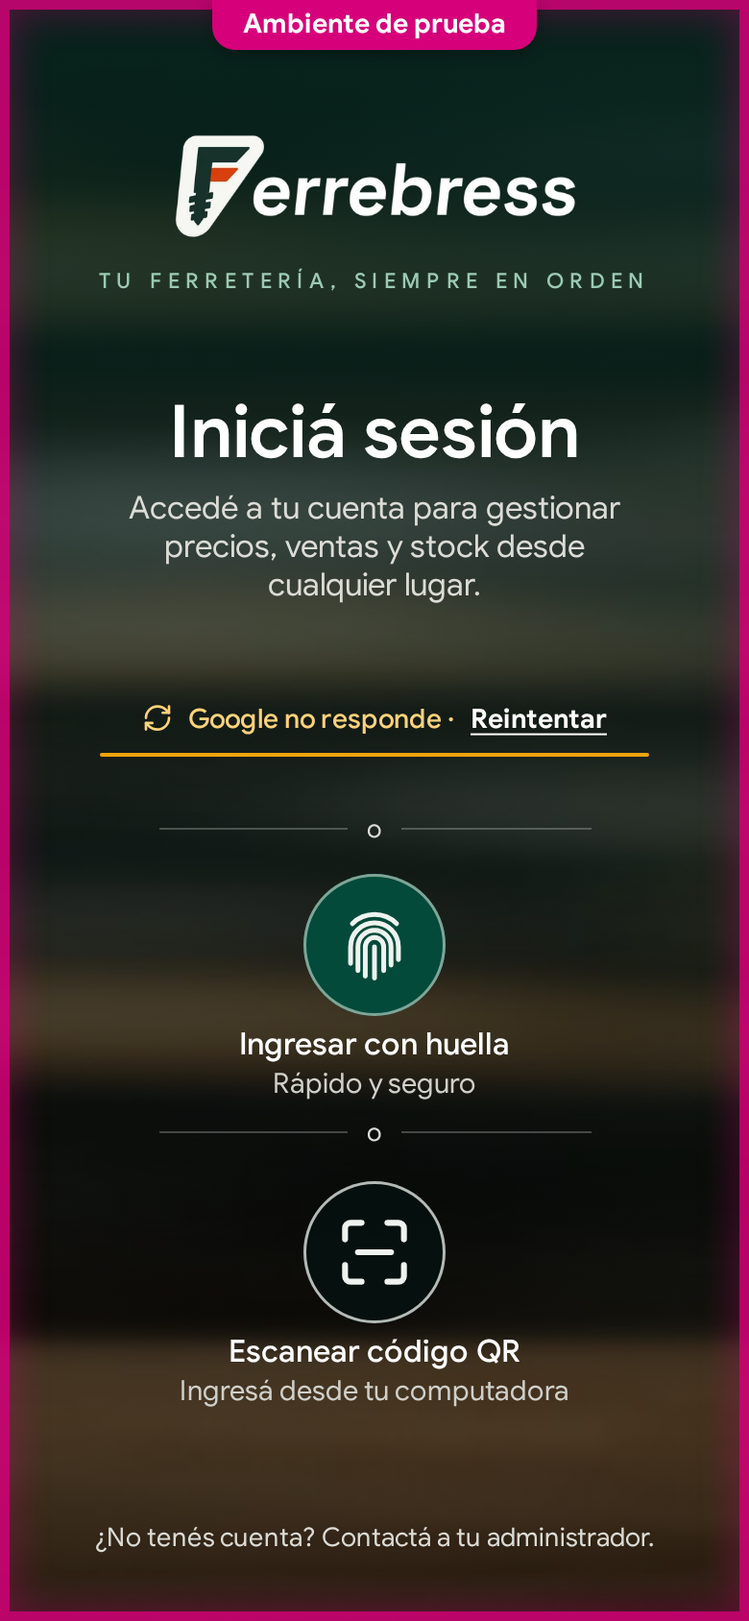
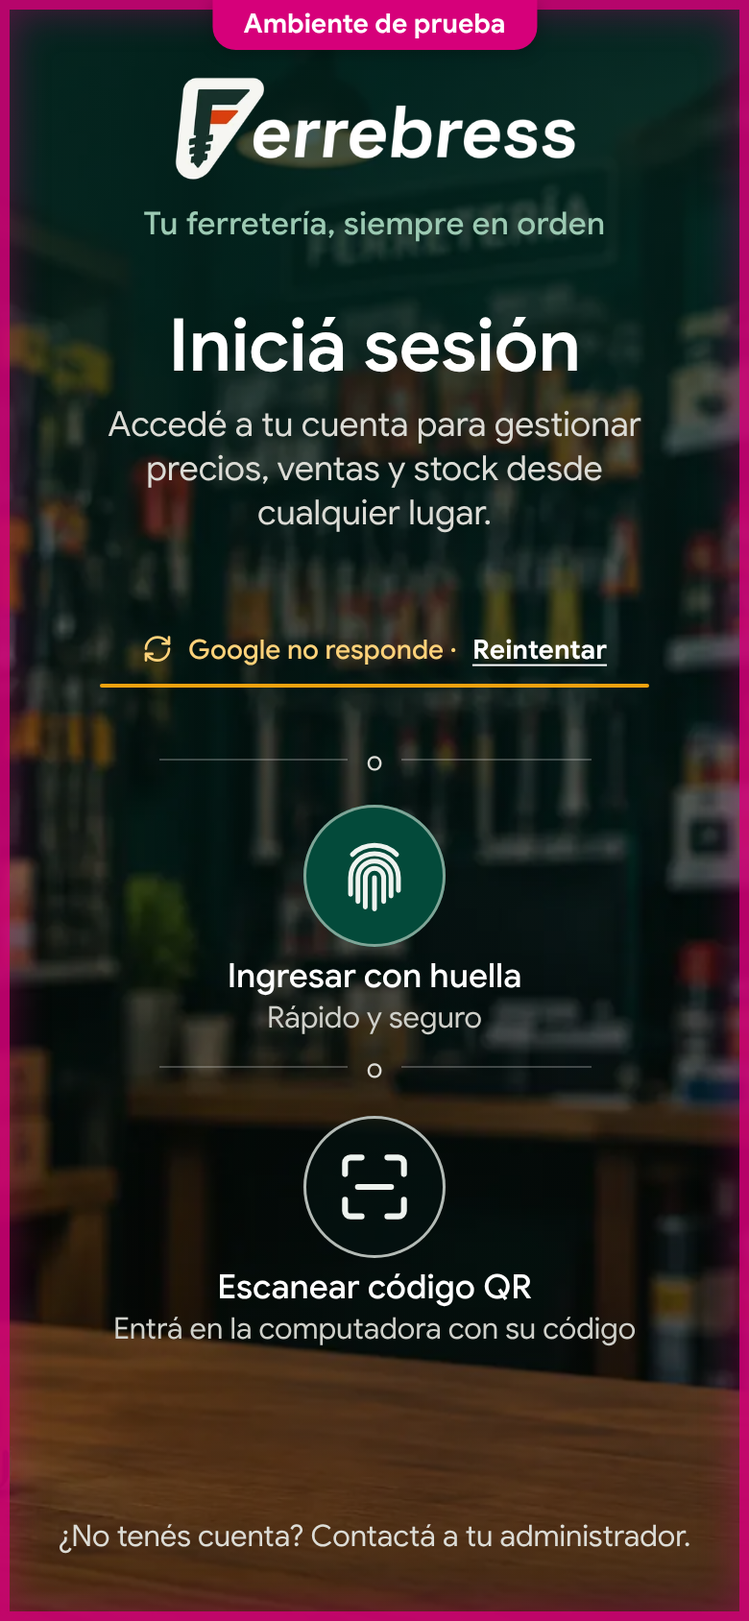
15 · Sin conexión: las maquetas de entrar sin conexión, para aprobar
- La entrada oscura del celular suma «Sin conexión, con la huella» (la huella prendida y hasta
  cuándo se puede entrar) y «No se pudo confirmar tu entrada sin conexión». La maqueta toma
  también los tamaños y espacios que Carlos pidió al probar la aplicación.
- Más del celular suma «Trabajar sin conexión», con su interruptor.
- Sin conexión, el logo de la entrada del celular baja: la pastilla «Sin conexión» le tapaba la
  punta, también en la aplicación.

Claude-Session: https://claude.ai/code/session_01BmbhiYJAfQvWshUgYzn7JL

diff --git a/docs/design/mockups/sign-in-phone-dark/final/sign-in.css b/docs/design/mockups/sign-in-phone-dark/final/sign-in.css
@@ -26,7 +26,7 @@
   --urgente-suave: #FFF3D8; --urgente-texto: #845400; --urgente-borde: #f0c64a;
   --error-suave: #FCEAE7; --error-texto: #AE281D; --error: #D7372A;
   --logro: #1E9E62; --logro-suave: #E2F4EA; --logro-texto: #11764A;
-  --pino-suave: #E3EEE8; --pino-texto: #17614E;
+  --pino-suave: #E3EEE8; --pino-texto: #17614E; --pino-borde: #b5d3c4;
   --google: #1a73e8;
   --magenta: #d6007a;
   /* Movimiento: lo que sube, sube rápido y frena suave; lo que se va, se va más rápido. */
@@ -66,11 +66,15 @@ body.show-keys kbd { display: inline-flex; }
 .notice strong { display: block; }
 .notice.error { background: var(--error-suave); color: var(--error-texto); box-shadow: inset 0 0 0 1px #f3c6bf; }
 .notice.warn { background: var(--urgente-suave); color: var(--urgente-texto); box-shadow: inset 0 0 0 1px var(--urgente-borde); }
+/* Informa, no frena: se puede entrar con la huella sin conexión (15 · R2.1). */
+.notice.info { background: var(--pino-suave); color: var(--pino-texto); box-shadow: inset 0 0 0 1px var(--pino-borde); }
 .notice b { font-variant-numeric: tabular-nums; }
 body[data-state="sesion-cerrada"] #notice-closed,
-body[data-state="sesion-vencida"] #notice-closed { display: flex; }
+body[data-state="sesion-vencida"] #notice-closed,
+body[data-state="no-confirmada"] #notice-closed { display: flex; }
 body[data-state="no-autorizada"] #notice,
 body[data-state="sin-conexion"] #notice,
+body[data-state="sin-conexion-huella"] #notice,
 body[data-state="intentos"] #notice { display: flex; }
 @media (prefers-reduced-motion: no-preference) {
   .notice { animation: notice-in var(--t-entra) var(--curva); }
@@ -313,7 +317,7 @@ body[data-state="intentos"] #notice { display: flex; }
     --oscuro-texto: #ffffff;                /* títulos */
     --oscuro-texto-2: #dcdcd6;              /* el subtítulo y lo que explica */
     --oscuro-texto-3: #cfd0ca;              /* lo menos importante */
-    --oscuro-lema: #9ccab3;                 /* «TU FERRETERÍA, SIEMPRE EN ORDEN» */
+    --oscuro-lema: #9ccab3;                 /* el lema, «Tu ferretería, siempre en orden» */
     --oscuro-linea: rgb(255 255 255 / 0.24);/* las líneas de la «o» */
     --huella: #034a3a;                      /* el círculo de la huella */
     --huella-borde: #7fa597;
@@ -337,26 +341,28 @@ body[data-state="intentos"] #notice { display: flex; }
   /* Arriba a la derecha, solo sin conexión. */
   .status { position: absolute; top: 34px; right: 14px; z-index: 2; width: auto; }
   .status-net { display: none; }
-  body[data-state="sin-conexion"] .status-net { display: inline-flex; align-items: center; gap: 8px; padding: 7px 14px; border-radius: 12px; background: #fff7d6; color: #6b4a00; box-shadow: inset 0 0 0 1px var(--urgente-borde); font-size: 15px; font-weight: 700; }
-  body[data-state="sin-conexion"] .status-net::before { content: "!"; display: grid; place-items: center; width: 18px; height: 18px; border-radius: 50%; border: 2px solid currentColor; font-size: 12px; font-weight: 800; }
+  body[data-net="offline"] .status-net { display: inline-flex; align-items: center; gap: 8px; padding: 7px 14px; border-radius: 12px; background: #fff7d6; color: #6b4a00; box-shadow: inset 0 0 0 1px var(--urgente-borde); font-size: 15px; font-weight: 700; }
+  body[data-net="offline"] .status-net::before { content: "!"; display: grid; place-items: center; width: 18px; height: 18px; border-radius: 50%; border: 2px solid currentColor; font-size: 12px; font-weight: 800; }
 
-  /* La marca: el logo blanco y el lema en mayúsculas espaciadas. */
-  .brand { order: 1; display: flex; flex-direction: column; align-items: center; padding-top: 70px; }
+  /* La marca: el logo blanco y el lema. */
+  .brand { order: 1; display: flex; flex-direction: column; align-items: center; padding-top: 40px; }
+  /* Sin conexión, «Sin conexión» va arriba a la derecha: el logo baja para que no lo tape. */
+  body:is([data-state="sin-conexion"], [data-state="sin-conexion-huella"]) .brand { padding-top: 76px; }
   .brand-logo img { width: 209px; height: auto; }
-  .brand-motto { margin: 15px auto 0; max-width: 300px; font-size: 15px; line-height: 21px; font-weight: 500; letter-spacing: 0.01em; color: var(--oscuro-lema); }
+  .brand-motto { margin: 12px auto 0; max-width: 300px; font-size: 16.5px; line-height: 22px; font-weight: 500; letter-spacing: 0.01em; color: var(--oscuro-lema); }
 
   .right { order: 2; display: flex; flex-direction: column; }
   .card { display: flex; flex-direction: column; align-items: center; }
-  .phone-head { order: 0; margin-top: 50px; }
+  .phone-head { order: 0; margin-top: 30px; }
   .phone-title { font-size: 38px; line-height: 44px; font-weight: 600; letter-spacing: -0.005em; color: var(--oscuro-texto); }
-  .phone-sub { max-width: 268px; margin: 8px auto 0; font-size: 16.5px; line-height: 20px; font-weight: 400; color: var(--oscuro-texto-2); }
+  .phone-sub { max-width: 300px; margin: 8px auto 0; font-size: 18px; line-height: 23px; font-weight: 400; color: var(--oscuro-texto-2); }
   .notice { text-align: left; align-self: stretch; }
   .notice-top { order: 1; margin-top: 18px; }
   .notice-main { order: 2; margin-top: 18px; }
   .g-slot { order: 3; margin-top: 46px; }
   /* Con un aviso, el botón se acerca, para que el pie quede lo más cerca posible de la pantalla. */
-  body:is([data-state="no-autorizada"], [data-state="sin-conexion"], [data-state="intentos"], [data-state="sesion-cerrada"], [data-state="sesion-vencida"]) .g-slot { margin-top: 22px; }
-  .or { order: 4; align-self: stretch; display: flex; align-items: center; justify-content: center; gap: 10px; margin: 0 auto; width: 225px; max-width: 100%; height: 14px; color: var(--oscuro-texto-2); font-size: 13px; line-height: 1; }
+  body:is([data-state="no-autorizada"], [data-state="sin-conexion"], [data-state="intentos"], [data-state="sesion-cerrada"], [data-state="sesion-vencida"], [data-state="sin-conexion-huella"], [data-state="no-confirmada"]) .g-slot { margin-top: 22px; }
+  .or { order: 4; align-self: stretch; display: flex; align-items: center; justify-content: center; gap: 10px; margin: 0 auto; width: 225px; max-width: 100%; height: 14px; color: var(--oscuro-texto-2); font-size: 14px; line-height: 1; }
   .or::before, .or::after { content: ""; flex: 1; height: 1px; background: var(--oscuro-linea); }
   .or { margin-top: 24px; }
   .finger { order: 5; margin-top: 16px; }
@@ -370,11 +376,11 @@ body[data-state="intentos"] #notice { display: flex; }
   .finger .round-way-circle { background: var(--huella); box-shadow: inset 0 0 0 1.5px var(--huella-borde); }
   .round-way-circle .i { width: 46px; height: 46px; color: #eef3ef; }
   .round-way:active .round-way-circle { transform: scale(0.95); }
-  .round-way strong { margin-top: 4px; font-size: 16px; line-height: 22px; font-weight: 500; }
-  .round-way small { font-size: 14.5px; line-height: 19px; color: var(--oscuro-texto-3); }
+  .round-way strong { margin-top: 4px; font-size: 17.5px; line-height: 23px; font-weight: 500; }
+  .round-way small { font-size: 15.5px; line-height: 20px; color: var(--oscuro-texto-3); }
   .round-way:focus-visible { outline-color: #fff; }
 
-  .no-account { order: 4; margin-top: auto; padding-top: 34px; font-size: 14px; line-height: 20px; color: var(--oscuro-texto-2); }
+  .no-account { order: 4; margin-top: auto; padding-top: 34px; font-size: 15.5px; line-height: 21px; color: var(--oscuro-texto-2); }
 
   /* Apagados: sobre lo oscuro, sin el gris de la entrada clara. */
   .round-way.off { opacity: 0.38; filter: none; }

diff --git a/docs/design/mockups/sign-in-phone-dark/final/sign-in.js b/docs/design/mockups/sign-in-phone-dark/final/sign-in.js
@@ -18,9 +18,11 @@
     { id: "normal", label: "Normal", on: "both" },
     { id: "no-autorizada", label: "Cuenta no autorizada", on: "both" },
     { id: "sin-conexion", label: "Sin conexión", on: "both" },
+    { id: "sin-conexion-huella", label: "Sin conexión, con la huella", on: "phone" },
     { id: "intentos", label: "Demasiados intentos", on: "both" },
     { id: "sesion-cerrada", label: "Sesión cerrada desde otro dispositivo", on: "both" },
     { id: "sesion-vencida", label: "Sesión vencida", on: "both" },
+    { id: "no-confirmada", label: "No se pudo confirmar", on: "phone" },
     { id: "ofrecer-huella", label: "¿Entrar con la huella la próxima vez?", on: "phone" },
     { id: "leer-codigo", label: "Leyó el QR de una computadora", on: "phone" },
     { id: "otra-red", label: "Leyó el QR desde otra red", on: "phone" },
@@ -29,6 +31,9 @@
     { id: "entrando-celular", label: "Entrando con el celular", on: "desktop" }
   ];
   var DENIED_EMAIL = "Cuenta de prueba";
+  // Hasta cuándo se puede entrar sin conexión (15 · R2.1): las 24 horas desde el último contacto.
+  var OFFLINE_UNTIL = "el martes 9:40";
+  var isOffline = function (id) { return id === "sin-conexion" || id === "sin-conexion-huella"; };
   var state = "normal";
   var limitTimer = null;
   var select = $("#state-select");
@@ -62,9 +67,14 @@
     select.value = id;
 
     // La sesión terminó (R3.5): el mismo aviso, con el título según por qué.
-    $("#notice-closed-title").textContent = id === "sesion-vencida" ? "Tu sesión venció" : "Tu sesión se cerró desde otro dispositivo";
+    // La entrada sin conexión que el servidor no pudo confirmar (15 · R3.2) usa el mismo aviso.
+    $("#notice-closed-title").textContent = id === "sesion-vencida" ? "Tu sesión venció"
+      : id === "no-confirmada" ? "No se pudo confirmar tu entrada sin conexión"
+      : "Tu sesión se cerró desde otro dispositivo";
     if (id === "no-autorizada") setNotice("error", "ban", "Esta cuenta (" + DENIED_EMAIL + ") no está autorizada. Pedile a un Administrador que agregue tu correo.");
     if (id === "sin-conexion") setNotice("warn", "wifi-off", "<strong>Para entrar hace falta internet</strong>Cuando vuelva la conexión, los botones se prenden solos.");
+    // Sin conexión, con la opción prendida y dentro de las 24 horas (15 · R2.1): no es un error, informa.
+    if (id === "sin-conexion-huella") setNotice("info", "wifi-off", "Sin conexión: podés entrar con la huella hasta <b>" + OFFLINE_UNTIL + "</b>");
     if (id === "intentos") {
       var left = 45;
       var paint = function () { setNotice("warn", "clock", "<strong>Demasiados intentos seguidos</strong>Podés volver a probar en <b>" + fmt(left) + "</b>."); };
@@ -72,14 +82,16 @@
       limitTimer = setInterval(function () { left -= 1; if (left <= 0) { setState("normal", true); } else paint(); }, 1000);
     }
 
-    // Lo apagado: sin conexión, todo; con demasiados intentos, Google y la huella.
-    var tokens = id === "sin-conexion" ? ["offline"] : id === "intentos" ? ["limit"] : [];
+    // Lo apagado: sin conexión, todo (o todo menos la huella, si se puede entrar con ella sin
+    // conexión, 15 · R2.1); con demasiados intentos, Google y la huella.
+    var tokens = id === "sin-conexion" ? ["offline"] : id === "sin-conexion-huella" ? ["offline-finger"] : id === "intentos" ? ["limit"] : [];
     $$("[data-off-when]").forEach(function (b) {
       var off = b.getAttribute("data-off-when").split(" ").some(function (t) { return tokens.indexOf(t) >= 0; });
       b.classList.toggle("off", off); b.disabled = off;
     });
-    $("#net").textContent = id === "sin-conexion" ? "Sin conexión" : "En línea";
-    if (id !== "sin-conexion") restartQr();
+    $("#net").textContent = isOffline(id) ? "Sin conexión" : "En línea";
+    document.body.dataset.net = isOffline(id) ? "offline" : "online";
+    if (!isOffline(id)) restartQr();
 
     var url = new URL(location.href);
     if (id === "normal") url.searchParams.delete("estado"); else url.searchParams.set("estado", id);
@@ -133,7 +145,7 @@
     qrLeft = QR_SECONDS; paintCount();
     clearInterval(qrTimer);
     qrTimer = setInterval(function () {
-      if (document.body.dataset.state === "sin-conexion") return;
+      if (document.body.dataset.net === "offline") return;
       qrLeft -= 1;
       if (qrLeft <= 0) { qrLeft = QR_SECONDS; swapQr(); }
       paintCount();
@@ -260,8 +272,7 @@
 
   // ---------- Simular que el celular lee el QR (computadora) ----------
   $("#sim-read").addEventListener("click", function () {
-    var st = document.body.dataset.state;
-    if (st === "sin-conexion" || stack.length) return;
+    if (document.body.dataset.net === "offline" || stack.length) return;
     var q = $("#qr");
     q.classList.add("read");
     setTimeout(function () {

diff --git a/docs/design/mockups/sign-in-phone-dark/final/index.html b/docs/design/mockups/sign-in-phone-dark/final/index.html
@@ -33,7 +33,7 @@
         <img class="d-only" src="../../../common/brand/logo-on-dark.png" alt="Ferrebress" width="812" height="208">
         <img class="p-only" src="logo-on-dark-large.webp" alt="Ferrebress" width="593" height="152">
       </h1>
-      <p class="brand-motto p-only">Vendé, contá y cobrá desde el mostrador o el depósito.</p>
+      <p class="brand-motto p-only">Tu ferretería, siempre en orden</p>
       <p class="brand-kicker d-only">El sistema del mostrador</p>
       <p class="brand-title d-only">Precios al día,<br>ventas y stock<br><em>de la ferretería.</em></p>
       <p class="brand-lead d-only">Ferrebress es el sistema del mostrador: se usa desde el celular y desde la computadora, con los mismos datos.</p>
@@ -70,7 +70,7 @@
         </div>
         <p class="card-sub d-only" id="card-sub">Entra con tu usuario, sin contraseñas, usando tu huella.</p>
 
-        <!-- Aviso de arriba: la sesión se cerró desde otro dispositivo. -->
+        <!-- Aviso de arriba: la sesión se cerró desde otro dispositivo, venció o no se pudo confirmar la entrada sin conexión. -->
         <div class="notice notice-top warn" id="notice-closed" role="alert">
           <i class="i" data-i="log-out"></i>
           <p><strong id="notice-closed-title">Tu sesión se cerró desde otro dispositivo</strong><span>Entrá de nuevo para seguir donde estabas.</span></p>
@@ -104,7 +104,7 @@
           <span class="g-thread-label"><span class="google-g" aria-hidden="true"><svg viewBox="0 0 48 48"><path fill="#EA4335" d="M24 9.5c3.54 0 6.71 1.22 9.21 3.6l6.85-6.85C35.9 2.38 30.47 0 24 0 14.62 0 6.51 5.38 2.56 13.22l7.98 6.19C12.43 13.72 17.74 9.5 24 9.5z"/><path fill="#4285F4" d="M46.98 24.55c0-1.57-.15-3.09-.38-4.55H24v9.02h12.94c-.58 2.96-2.26 5.48-4.78 7.18l7.73 6c4.51-4.18 7.09-10.36 7.09-17.65z"/><path fill="#FBBC05" d="M10.53 28.59c-.48-1.45-.76-2.99-.76-4.59s.27-3.14.76-4.59l-7.98-6.19C.92 16.46 0 20.12 0 24c0 3.88.92 7.54 2.56 10.78l7.97-6.19z"/><path fill="#34A853" d="M24 48c6.48 0 11.93-2.13 15.89-5.81l-7.73-6c-2.15 1.45-4.92 2.3-8.16 2.3-6.26 0-11.57-4.22-13.47-9.91l-7.98 6.19C6.51 42.62 14.62 48 24 48z"/></svg></span>Conectando con Google…</span>
           <span class="g-thread-track"><span class="g-thread-run"></span><span class="g-thread-fill"></span></span>
         </div>
-        <button type="button" class="google" id="google" data-off-when="offline limit" tabindex="-1">
+        <button type="button" class="google" id="google" data-off-when="offline offline-finger limit" tabindex="-1">
           <span class="google-g" aria-hidden="true"><svg viewBox="0 0 48 48"><path fill="#EA4335" d="M24 9.5c3.54 0 6.71 1.22 9.21 3.6l6.85-6.85C35.9 2.38 30.47 0 24 0 14.62 0 6.51 5.38 2.56 13.22l7.98 6.19C12.43 13.72 17.74 9.5 24 9.5z"/><path fill="#4285F4" d="M46.98 24.55c0-1.57-.15-3.09-.38-4.55H24v9.02h12.94c-.58 2.96-2.26 5.48-4.78 7.18l7.73 6c4.51-4.18 7.09-10.36 7.09-17.65z"/><path fill="#FBBC05" d="M10.53 28.59c-.48-1.45-.76-2.99-.76-4.59s.27-3.14.76-4.59l-7.98-6.19C.92 16.46 0 20.12 0 24c0 3.88.92 7.54 2.56 10.78l7.97-6.19z"/><path fill="#34A853" d="M24 48c6.48 0 11.93-2.13 15.89-5.81l-7.73-6c-2.15 1.45-4.92 2.3-8.16 2.3-6.26 0-11.57-4.22-13.47-9.91l-7.98 6.19C6.51 42.62 14.62 48 24 48z"/></svg></span>
           <span class="google-text">Continuar con Google</span>
         </button>
@@ -127,12 +127,12 @@
 
         <div class="or or-second p-only" aria-hidden="true"><span>o</span></div>
 
-        <button type="button" class="round-way scan p-only" id="scan" data-off-when="offline">
+        <button type="button" class="round-way scan p-only" id="scan" data-off-when="offline offline-finger">
           <span class="round-way-circle"><i class="i" data-i="scan-frame" data-trazo="1.6"></i></span>
           <strong>Escanear código QR</strong><small>Entrá en la computadora con su código</small>
         </button>
 
-        <!-- Aviso del lugar: no autorizada, sin conexión o demasiados intentos. -->
+        <!-- Aviso del lugar: no autorizada, sin conexión (con o sin la huella) o demasiados intentos. -->
         <div class="notice notice-main" id="notice" role="alert">
           <i class="i" id="notice-icon" data-i="ban"></i>
           <p id="notice-text"></p>

diff --git a/docs/design/mockups/app-frame/final/index.html b/docs/design/mockups/app-frame/final/index.html
@@ -258,6 +258,17 @@
   .p-mas-texto { flex: 1; min-width: 0; }
   .p-mas-texto b { display: block; font-size: 16px; line-height: 22px; font-weight: 700; }
   .p-mas-texto small { display: block; font-size: 14px; line-height: 20px; color: var(--texto-2); }
+  /* El interruptor (la «llave» de Configuración): prendido, en pino, como todo lo elegido. El color
+     cambia con un fundido de su capa (opacity) y la perilla se corre (transform). */
+  .llave { position: relative; flex: none; width: 52px; height: 32px; border-radius: 99px; background: var(--hundido-2); overflow: hidden; }
+  .llave::before { content: ""; position: absolute; inset: 0; border-radius: inherit; background: var(--pino); opacity: 0; }
+  .llave::after { content: ""; position: absolute; top: 3px; left: 3px; width: 26px; height: 26px; border-radius: 99px; background: var(--superficie); box-shadow: 0 2px 4px rgb(26 29 27 / .2); }
+  .p-mas-llave[aria-checked="true"] .llave::before { opacity: 1; }
+  .p-mas-llave[aria-checked="true"] .llave::after { transform: translateX(20px); }
+  @media (prefers-reduced-motion: no-preference) {
+    .llave::before { transition: opacity var(--t) var(--curva); }
+    .llave::after { transition: transform var(--t) var(--curva); }
+  }
   .p-mas-salir { margin-top: 20px; background: var(--superficie); }
   .p-mas-salir:active { background: var(--fondo); }
   .p-mas-salir .p-mas-texto b { color: var(--error-texto); }
@@ -338,6 +349,10 @@
     <h2 class="p-mas-grupo-titulo" id="p-mas-ajustes">Ajustes</h2>
     <ul class="p-mas-tarjeta p-mas-grupo" aria-labelledby="p-mas-ajustes">
       <li><button type="button" class="p-mas-opcion" data-p="Configuración"><span class="p-mas-ic neutro"><i class="i" data-i="settings"></i></span><span class="p-mas-texto"><b>Configuración</b><small>Lo tuyo, en este celular</small></span><span class="pronto">Pronto</span></button></li>
+      <!-- «Trabajar sin conexión» (15 · R1): solo en el celular, con el permiso y la huella vinculada en
+           este celular; si no, el renglón no está. Prenderla pide conexión; apagarla, no. Cuando exista
+           Configuración, pasa ahí. -->
+      <li><button type="button" class="p-mas-opcion p-mas-llave" id="p-sin-conexion" role="switch" aria-checked="false" aria-labelledby="p-sin-conexion-nombre" aria-describedby="p-sin-conexion-detalle"><span class="p-mas-ic neutro"><i class="i" data-i="wifi-off"></i></span><span class="p-mas-texto"><b id="p-sin-conexion-nombre">Trabajar sin conexión</b><small id="p-sin-conexion-detalle">Entrá con la huella aunque no haya internet, hasta 24 horas</small></span><span class="llave" aria-hidden="true"></span></button></li>
       <li><button type="button" class="p-mas-opcion" data-p="Administración"><span class="p-mas-ic"><i class="i" data-i="sliders-horizontal"></i></span><span class="p-mas-texto"><b>Administración</b><small>Ajustes para todos</small></span><span class="pronto">Pronto</span></button></li>
       <li><button type="button" class="p-mas-opcion" data-p="El manual"><span class="p-mas-ic"><i class="i" data-i="book-open"></i></span><span class="p-mas-texto"><b>Manual</b><small>Cómo se usa Ferrebress</small></span><span class="pronto">Pronto</span></button></li>
     </ul>
@@ -571,6 +586,14 @@
       if (!pantallaMas.hidden && b === parteAbierta) { verMas(false); return; }
       M.noEsta(b.querySelector(".ico-mov"), b.dataset.p, "· pronto. Todavía no está.");
     });
+  });
+  // «Trabajar sin conexión» (15 · R1.1 y R1.3): se prende y se apaga tocando el renglón. Para
+  // prenderla hace falta conexión; apagarla se puede siempre.
+  var llave = $("p-sin-conexion");
+  llave.addEventListener("click", function () {
+    var prendida = llave.getAttribute("aria-checked") === "true";
+    if (!prendida && M.net === "offline") { M.tostada("Para prenderla hace falta internet.", "wifi-off"); return; }
+    llave.setAttribute("aria-checked", String(!prendida));
   });
   pantallaMas.querySelectorAll("[data-p]").forEach(function (b) {
     b.addEventListener("click", function () { M.noEsta(b, b.dataset.p, "· pronto. Todavía no está."); });

diff --git a/docs/design/mockups/sign-in-phone-dark/final/loading.js b/docs/design/mockups/sign-in-phone-dark/final/loading.js
@@ -101,7 +101,7 @@
     var url = new URL(location.href);
     if (moment.id === "vivo-3") url.searchParams.delete("google"); else url.searchParams.set("google", moment.id);
     history.replaceState(null, "", url);
-    if (document.body.dataset.state === "sin-conexion") { offline(); return; }
+    if (document.body.dataset.net === "offline") { offline(); return; }
     if (moment.phase) freeze(moment); else play(moment);
   }
   function offline() { stop(); slot.classList.remove("arrived"); setPhase("offline"); setClock("sin conexión · Google no puede cargar"); }
@@ -109,11 +109,11 @@
   select.addEventListener("change", function () { run(select.value); select.blur(); });
   replay.addEventListener("click", function () { run(moment && !moment.phase ? moment.id : "vivo-3"); });
 
-  // Sin conexión (el estado de la entrada): Google no puede cargar; al volver, se pide de nuevo solo.
+  // Sin conexión (los dos estados sin conexión de la entrada, con o sin la huella): Google no puede cargar; al volver, se pide de nuevo solo.
   new MutationObserver(function () {
-    if (document.body.dataset.state === "sin-conexion") offline();
+    if (document.body.dataset.net === "offline") offline();
     else if (slot.dataset.phase === "offline") run(moment.id);
-  }).observe(document.body, { attributes: true, attributeFilter: ["data-state"] });
+  }).observe(document.body, { attributes: true, attributeFilter: ["data-state", "data-net"] });
 
   run(new URLSearchParams(location.search).get("google") || "vivo-3");
 })();

diff --git a/src/app/modules/sign-in/screens/Entrance/styles/phone-dark.css b/src/app/modules/sign-in/screens/Entrance/styles/phone-dark.css
@@ -80,6 +80,10 @@
         gap: 0;
         padding-top: 40px;
       }
+      /* Sin conexión, «Sin conexión» va arriba a la derecha: el logo baja para que no lo tape. */
+      &.offline .brand {
+        padding-top: 76px;
+      }
       .brand-logo img {
         width: 209px;
         margin: 0;

diff --git a/docs/design/mockups/sign-in-phone-dark/final/changes.md b/docs/design/mockups/sign-in-phone-dark/final/changes.md
@@ -10,8 +10,10 @@ Capturas (390 × 844, sin las herramientas de la maqueta): `screenshot-phone.png
 `screenshot-phone-google-loading.png` (Google tarda, pasados 2 s), `screenshot-phone-google-failed.png`
 (Google no respondió), `screenshot-phone-offline.png`, `screenshot-phone-limit.png` (demasiados
 intentos), `screenshot-phone-denied.png` (cuenta no autorizada), `screenshot-phone-session-ended.png`
-(sesión vencida; la cerrada desde otro dispositivo es igual, con su título) y
-`screenshot-phone-entering.png` (Entrando con Google).
+(sesión vencida; la cerrada desde otro dispositivo es igual, con su título),
+`screenshot-phone-entering.png` (Entrando con Google), `screenshot-phone-offline-finger.png` (sin
+conexión, con la huella) y `screenshot-phone-not-confirmed.png` (no se pudo confirmar la entrada sin
+conexión).
 
 Arriba a la izquierda, las herramientas de la maqueta: el momento de Google (en vivo o fijo),
 «Repetir» y el estado de la entrada (también con `?estado=` y `?google=` en la dirección).
@@ -133,7 +135,7 @@ Arriba a la izquierda, las herramientas de la maqueta: el momento de Google (en 
 
 ## Lo que pidió Carlos al probarla
 
-Vale sobre lo de arriba; la maqueta no se rehízo.
+Vale sobre lo de arriba; la maqueta ya tiene estos valores, los mismos de la aplicación.
 
 - **El lema** vuelve a ser «Tu ferretería, siempre en orden», en minúsculas y a 16,5 px: «Vendé,
   contá y cobrá…» repetía lo que dice el subtítulo de «Iniciá sesión».
@@ -142,3 +144,38 @@ Vale sobre lo de arriba; la maqueta no se rehízo.
   queda en 38 px.
 - **Menos espacio** arriba del logo (40 px en lugar de 70) y entre el lema e «Iniciá sesión» (30 px
   en lugar de 50).
+
+## Entrar sin conexión (15 · etapa a)
+
+Dos estados más, solo en el celular (la computadora no entra sin conexión, 15 · R1.1), en el
+selector de la maqueta y en `?estado=`:
+
+- **«Sin conexión, con la huella»** (`?estado=sin-conexion-huella`, 15 · R2.1): la huella queda
+  prendida, como en el estado normal; Google («Sin internet, Google no carga») y «Escanear código QR»
+  apagados, como sin conexión; «Sin conexión» arriba a la derecha; y en lugar de «Para entrar hace
+  falta internet», el aviso «Sin conexión: podés entrar con la huella hasta **el martes 9:40**», con
+  el día y la hora en negrita, como la cuenta regresiva de demasiados intentos.
+  - **El tono del aviso:** no es un error ni algo que frena, así que no usa el ámbar de los avisos
+    que impiden entrar (sin conexión, intentos, sesión terminada) ni el rojo de la cuenta no
+    autorizada. Va en verde claro (`--pino-suave` con el texto en `--pino-texto`, el par que ya usa
+    la maqueta para «La forma más rápida»), con el mismo ícono de wifi tachado y la misma forma que
+    los otros avisos. Contraste 6,2:1, más que el de los avisos ámbar (5,9:1).
+- **«No se pudo confirmar»** (`?estado=no-confirmada`, 15 · R3.2): con conexión, todo prendido y
+  el aviso de arriba de la sesión vencida, con el título «No se pudo confirmar tu entrada sin
+  conexión» y debajo «Entrá de nuevo para seguir donde estabas.».
+- **«Sin conexión»** queda igual: es el de 15 · R2.4 (sin la opción, vencido, reloj atrasado, sesión
+  cerrada desde otro dispositivo o sin huella vinculada).
+- **Para llevarla al código:** los dos estados sin conexión marcan `body[data-net="offline"]`, que es
+  lo que muestra «Sin conexión» arriba, apaga el lugar de Google y frena el QR. Lo que se apaga en
+  cada estado sale de `data-off-when` (`offline` apaga todo; `offline-finger`, todo menos la huella).
+
+## Lo que queda sin resolver
+
+- **«Sin conexión» arriba a la derecha tapa la punta del logo** en los dos estados sin conexión:
+  con el logo a 40 px del borde (lo que pidió Carlos al probarla) quedan a la misma altura. La
+  aplicación tiene los mismos valores, así que se ve igual. No se cambió: decide Carlos dónde va.
+- **Tocar la huella sin conexión** muestra en la maqueta la misma pantalla de Entrando que con
+  conexión («Ahora Ferrebress abre tu sesión»). Sin conexión no hay servidor que la abra: por
+  15 · R2.6 se llega directo al marco con la luz en «Sin conexión». La maqueta no tiene el marco.
+- **Sin conexión, el logo baja** (76 px arriba en lugar de 40): la pastilla «Sin conexión», arriba
+  a la derecha, tapaba la punta del logo. También en la aplicación.

diff --git a/docs/design/mockups/app-frame/final/changes.md b/docs/design/mockups/app-frame/final/changes.md
@@ -7,7 +7,7 @@ todas las maquetas.
 
 Capturas: `screenshot.png` (agrandado), `screenshot-collapsed.png` (minimizado),
 `screenshot-alt.png` y `screenshot-alt-collapsed.png` (con Alt apretado), `screenshot-phone.png` y
-`screenshot-phone-more.png` (Más abierto en el celular).
+`screenshot-phone-more.png` (Más abierto en el celular, con «Trabajar sin conexión» prendida).
 
 ## Por directivas de Carlos
 
@@ -107,3 +107,24 @@ Capturas: `screenshot.png` (agrandado), `screenshot-collapsed.png` (minimizado),
   celular son dos listas con su título (`h2`), el botón de minimizar usa `aria-expanded`, y minimizado los nombres siguen
   en la página para el lector de pantalla.
 - `shared.js` suma `Marco.alMarcar(fn)`, para que el rótulo siga a la marca del teclado.
+
+## Entrar sin conexión (15 · etapa a)
+
+- **«Trabajar sin conexión» en Más del celular (15 · R1.1):** un renglón más en «Ajustes», debajo
+  de Configuración (cuando exista, la opción pasa ahí). El mismo molde que los otros renglones: el
+  ícono `wifi-off` en el cuadrado neutro (`--hundido`, como Configuración: es lo propio, en este
+  celular), el nombre «Trabajar sin conexión» y debajo «Entrá con la huella aunque no haya internet,
+  hasta 24 horas», en dos renglones. A la derecha, en lugar de «Pronto», el interruptor.
+- **El interruptor es la «llave» de la maqueta de Configuración** (`device-settings/settings.css`):
+  52 × 32 px, gris (`--hundido-2`) apagada y en pino prendida, como todo lo elegido. Se toca todo el
+  renglón (un `button` con `role="switch"` y `aria-checked`). El color cambia con un fundido de una
+  capa (`opacity`) y la perilla se corre con `transform`, en 200 ms; con «reducir movimiento»,
+  cambia sin animar. La original animaba el `background`; se cambió por la regla de animar solo
+  `transform` y `opacity`.
+- **Para prenderla hace falta conexión (15 · R1.3):** con el selector de la maqueta en «Sin conexión»,
+  tocarla apagada no la prende y la tostada dice «Para prenderla hace falta
+  internet.». Apagarla se puede siempre.
+- **Arranca apagada**; la captura `screenshot-phone-more.png` la muestra prendida.
+- **Solo en el celular (15 · R1.1, E04):** la computadora no la tiene y se ve igual. Quien no tiene el
+  permiso o no tiene la huella vinculada en ese celular no ve el renglón (R1.2, R1.3); la maqueta
+  muestra el caso de un Administrador con la huella vinculada.
